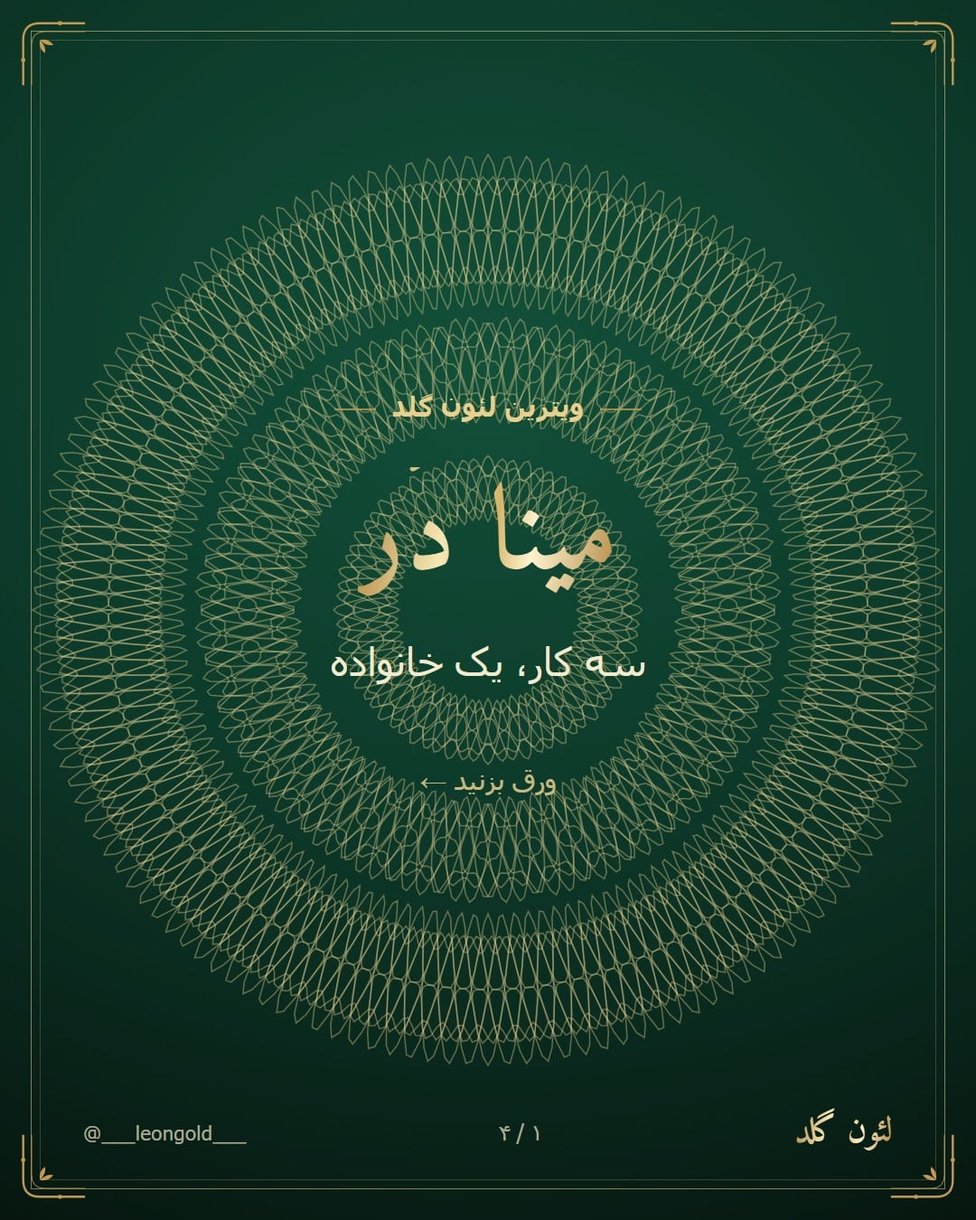
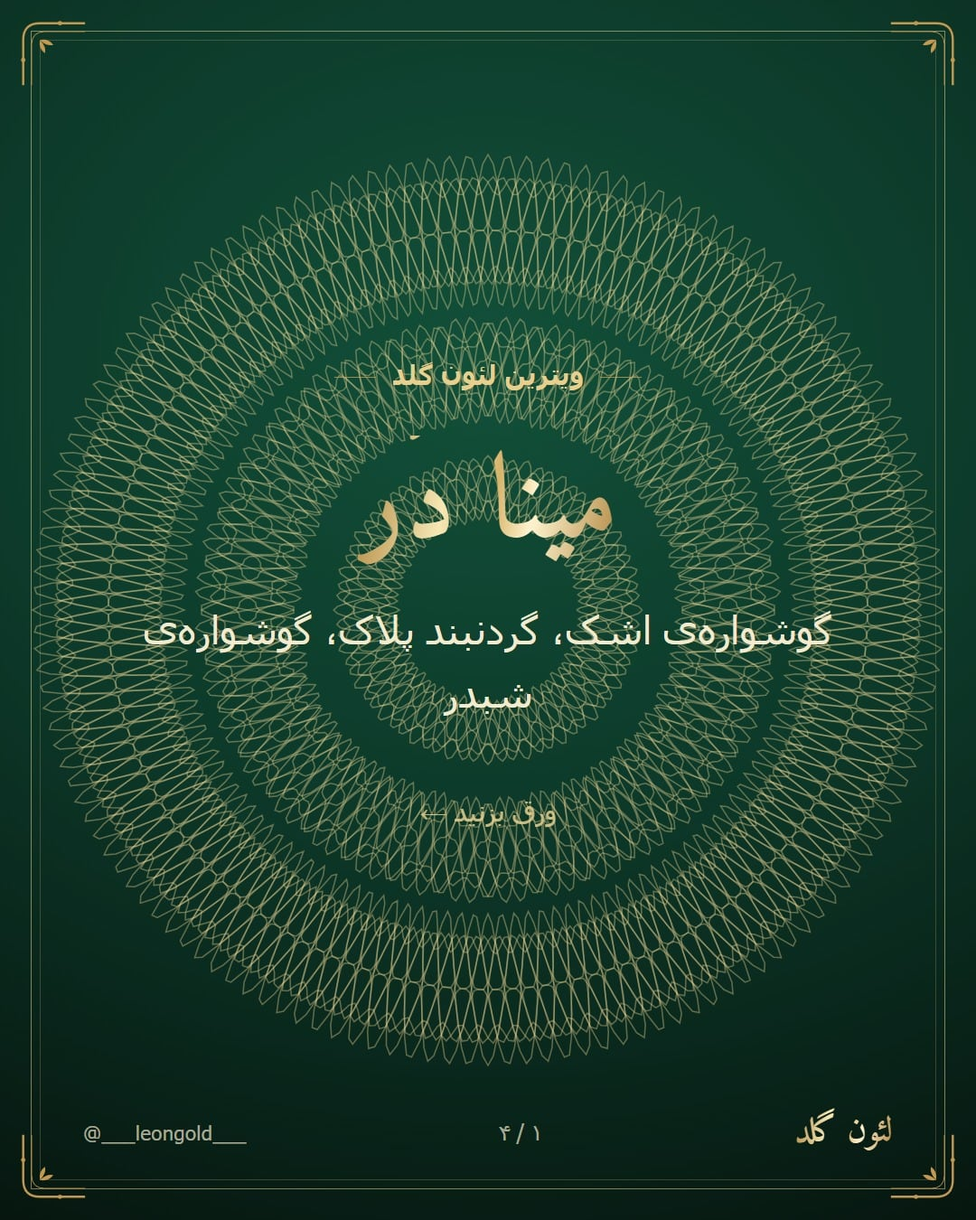
social: humanized captions, links to the piece pages

diff --git a/social/plan.js b/social/plan.js
@@ -5,10 +5,13 @@
 const MET = "موزهی متروپولیتن · CC0";
 const ASK = "وزن و قیمت امروزش را در دایرکت یا واتساپ بپرسید؛ با نرخ همین ساعتِ اتحادیه حساب میکنیم.";
 const SIGN = "لئون گلد، تهران\nشنبه تا چهارشنبه، ۱۱ تا ۱۸ · واتساپ ۰۹۱۲۹۳۷۴۵۵۲";
+// the piece pages on the site; the preview address until the owner's domain is live (then «/vitrin/<slug>/» on it)
+const VITRIN = "https://leon-gold.github.io/leon-gold-app/site/vitrin/";
+const LINK_STORY = "استوری با برچسب «لینک» (Link) به صفحهی همین کار در سایت؛ نشانی را با دکمهی «کپی لینک» بردارید.";
 const PRICE_STORY = "استوری قیمت روز: ساعت ۱۱:۳۰ صفحهی «قیمت امروز» را باز کنید، عکس را ذخیره و در استوری بگذارید.";
 
 window.PLAN = [
-  { id: "d01", date: "چهارشنبه ۶ آبان", time: "۲۱:۰۰", kind: "پست · ۳ اسلاید", title: "گوشوارهی آویز اشک",
+  { id: "d01", date: "چهارشنبه ۶ آبان", time: "۲۱:۰۰", kind: "پست · ۳ اسلاید", title: "گوشوارهی آویز اشک", link: VITRIN + "earring-drop/",
     slides: [
       { t: "photo", img: "earring-drop-1.webp", kicker: "مجموعهی مینا دُر", name: "گوشوارهی آویز اشک", sub: "قطرهای طلایی با چهار گوی براق، روی دو رشته زنجیر." },
       { t: "photo", img: "earring-drop-2.webp", plain: true },
@@ -17,7 +20,7 @@ window.PLAN = [
     ],
     caption: `گوشوارهی آویز اشک، از مجموعهی «مینا دُر»\n\nدو رشته زنجیر نازک، یک قطرهی طلا با نقش پیچ، و چهار گوی ریز که برق میزنند. بلند است و با هر حرکت سر تکان میخورد؛ با موی جمعشده بیشتر دیده میشود.\n\n${ASK}\n\n${SIGN}`,
     tags: ["#گوشواره_طلا", "#گوشواره_آویز", "#طلا_و_جواهرات", "#طلافروشی_تهران", "#لئون_گلد"],
-    stories: ["پست را در استوری بگذارید با برچسب «پست جدید».", PRICE_STORY] },
+    stories: ["پست را در استوری بگذارید با برچسب «پست جدید».", LINK_STORY, PRICE_STORY] },
 
   { id: "d02", date: "پنجشنبه ۷ آبان", time: "۱۱:۰۰", kind: "کاروسل · ۸ اسلاید", title: "شش واقعیت دربارهی طلا",
     slides: [
@@ -30,7 +33,7 @@ window.PLAN = [
       { t: "fact", big: "زرد", unit: "از نسبیت", title: "رنگ", line: "الکترونهای طلا آنقدر تند میچرخند که اثر نسبیت اینشتین در آنها پیداست؛ همین، طلا را وامیدارد نور آبی را بگیرد و زرد بدرخشد." },
       { t: "end", line: "کدامش را نمیدانستید؟\nبرای کسی که عاشق طلاست بفرستید." },
     ],
-    caption: `طلا چرا طلاست؟ شش واقعیت دربارهی طلا که کمتر شنیدهاید.\n\nاز ۱۹٫۳ گرم در هر سانتیمتر مکعب تا رنگی که از نسبیت اینشتین میآید. ورق بزنید.\n\nکدامش را نمیدانستید؟ این پست را برای کسی که عاشق طلاست بفرستید.\n\n${SIGN}`,
+    caption: `شش واقعیت دربارهی طلا، عنصر ۷۹.\n\nاز ۱۹٫۳ گرم در هر سانتیمتر مکعب تا رنگی که از نسبیت اینشتین میآید. ورق بزنید.\n\nکدامش را نمیدانستید؟ این پست را برای کسی که عاشق طلاست بفرستید.\n\n${SIGN}`,
     tags: ["#طلا", "#دانستنی_طلا", "#عنصر_طلا", "#طلا_و_جواهرات", "#لئون_گلد"],
     stories: ["پست را در استوری بگذارید با برچسب نظرسنجی: «کدام را میدانستید؟ سنگینی / رنگ».", PRICE_STORY] },
 
@@ -41,7 +44,7 @@ window.PLAN = [
     caption: "", tags: [],
     stories: ["این تصویر را در استوری بگذارید و برچسب «نظرسنجی» (Poll) را روی جای خالی وسط بگذارید: «شبدر» / «پلاک گرد».", "جمعه بازار بسته است؛ استوری قیمت امروز لازم نیست."] },
 
-  { id: "d04", date: "شنبه ۹ آبان", time: "۲۱:۰۰", kind: "پست · ۳ اسلاید", title: "گردنبند پلاک گرد",
+  { id: "d04", date: "شنبه ۹ آبان", time: "۲۱:۰۰", kind: "پست · ۳ اسلاید", title: "گردنبند پلاک گرد", link: VITRIN + "necklace-disc/",
     slides: [
       { t: "photo", img: "necklace-disc-2.webp", kicker: "مجموعهی مینا دُر", name: "گردنبند پلاک گرد", sub: "پلاک گرد با نقش پیچ، روی حلقههای درشت و زنجیر ظریف." },
       { t: "photo", img: "necklace-disc-1.webp", plain: true },
@@ -50,7 +53,7 @@ window.PLAN = [
     ],
     caption: `گردنبند پلاک گرد، از مجموعهی «مینا دُر»\n\nزنجیری ظریف با مکعبهای کوچک و پلاکهای بیضی شیاردار، که در وسط به حلقههای درشت و یک پلاک گرد با نقش پیچ میرسد. بلند است؛ روی یقهی باز یا لباس سادهی یکرنگ خوب مینشیند.\n\n${ASK}\n\n${SIGN}`,
     tags: ["#گردنبند_طلا", "#آویز_طلا", "#طلا_و_جواهرات", "#طلافروشی_تهران", "#لئون_گلد"],
-    stories: ["نتیجهی نظرسنجی جمعه را در استوری نشان دهید و بنویسید «امشب گردنبند پلاک گرد».", PRICE_STORY] },
+    stories: ["نتیجهی نظرسنجی جمعه را در استوری نشان دهید و بنویسید «امشب گردنبند پلاک گرد».", LINK_STORY, PRICE_STORY] },
 
   { id: "d05", date: "یکشنبه ۱۰ آبان", time: "۱۱:۰۰", kind: "کاروسل · ۶ اسلاید (+ ریلز اختیاری)", title: "مثقال یعنی چند گرم؟",
     slides: [
@@ -65,7 +68,7 @@ window.PLAN = [
     tags: ["#مثقال_طلا", "#قیمت_طلا", "#طلای_۱۸_عیار", "#آبشده", "#لئون_گلد"],
     reel: "r2", stories: ["کاروسل را در استوری بگذارید با برچسب «سؤال»: «سؤالتان دربارهی نرخ طلا چیست؟»؛ جوابها ایدهی پستهای بعد است.", PRICE_STORY] },
 
-  { id: "d06", date: "دوشنبه ۱۱ آبان", time: "۲۱:۰۰", kind: "پست · ۲ اسلاید", title: "گوشوارهی شبدر",
+  { id: "d06", date: "دوشنبه ۱۱ آبان", time: "۲۱:۰۰", kind: "پست · ۲ اسلاید", title: "گوشوارهی شبدر", link: VITRIN + "earring-clover/",
     slides: [
       { t: "photo", img: "earring-clover-1.webp", kicker: "مجموعهی مینا دُر", name: "گوشوارهی شبدر", sub: "گلی از چهار قلب با یک نگین، و شبدر چهاربرگ زیرش." },
       { t: "card", kicker: "از نزدیک", title: "گوشوارهی شبدر", line: "از قلاب، زنجیر کوتاهی پایین میآید؛ اول گلی که از چهار قلب توخالی ساخته شده و وسطش نگین کوچکی نشسته، بعد شبدر چهاربرگ تخت. سبک است و برای هر روز.",
@@ -73,7 +76,7 @@ window.PLAN = [
     ],
     caption: `گوشوارهی شبدر، از مجموعهی «مینا دُر»\n\nگلی از چهار قلب توخالی با نگینی کوچک در وسط، و زیرش شبدر چهاربرگ. سبک است و برای هر روز.\n\n${ASK}\n\n${SIGN}`,
     tags: ["#گوشواره_طلا", "#گوشواره_شبدر", "#طلای_روزمره", "#طلافروشی_تهران", "#لئون_گلد"],
-    stories: ["پست را در استوری بگذارید با برچسب «اسلایدر ایموجی» ❤: «چقدر دوستش دارید؟»", PRICE_STORY] },
+    stories: ["پست را در استوری بگذارید با برچسب «اسلایدر ایموجی» ❤: «چقدر دوستش دارید؟»", LINK_STORY, PRICE_STORY] },
 
   { id: "d07", date: "سهشنبه ۱۲ آبان", time: "۱۱:۰۰", kind: "کاروسل · ۷ اسلاید", title: "عیار یعنی چه؟",
     slides: [
@@ -89,7 +92,7 @@ window.PLAN = [
     tags: ["#عیار_طلا", "#طلای_۱۸_عیار", "#سکه_بهار_آزادی", "#طلا_و_جواهرات", "#لئون_گلد"],
     stories: ["کاروسل را در استوری بگذارید با برچسب «کوییز»: «نرخ مثقال بر پایهی کدام عیار است؟ ۷۵۰ / ۷۰۵ / ۹۰۰» (جواب: ۷۰۵).", PRICE_STORY] },
 
-  { id: "d08", date: "چهارشنبه ۱۳ آبان", time: "۲۱:۰۰", kind: "پست · ۲ اسلاید", title: "گوشوارهی قلب و گوی",
+  { id: "d08", date: "چهارشنبه ۱۳ آبان", time: "۲۱:۰۰", kind: "پست · ۲ اسلاید", title: "گوشوارهی قلب و گوی", link: VITRIN + "earring-hearts/",
     slides: [
       { t: "photo", img: "earring-hearts-1.webp", kicker: "ویترین لئون گلد", name: "گوشوارهی قلب و گوی", sub: "قلبی توخالی با قلب کوچکی کنارش، زیر یک گوی براق." },
       { t: "card", kicker: "از نزدیک", title: "گوشوارهی قلب و گوی", line: "از قلاب، یک پلاک بیضی چکشخورده و زنجیری ظریف پایین میآید؛ بعد گویی که مثل نگین برق میزند و قلبی توخالی که قلب کوچک تختی در آغوش دارد. ظریف و سبک است؛ هم برای هر روز، هم برای هدیه.",
@@ -97,7 +100,7 @@ window.PLAN = [
     ],
     caption: `گوشوارهی قلب و گوی\n\nپلاکی بیضی چکشخورده، زنجیری ظریف، گویی براق و قلبی توخالی که قلب کوچکی را در آغوش دارد. ظریف و سبک؛ هم برای هر روز، هم برای هدیه. کد E39.\n\n${ASK}\n\n${SIGN}`,
     tags: ["#گوشواره_طلا", "#هدیه_طلا", "#گوشواره_قلب", "#طلافروشی_تهران", "#لئون_گلد"],
-    stories: ["پست را در استوری بگذارید: «برای هدیه به کی؟» با برچسب «سؤال».", PRICE_STORY] },
+    stories: ["پست را در استوری بگذارید: «برای هدیه به کی؟» با برچسب «سؤال».", LINK_STORY, PRICE_STORY] },
 
   { id: "d09", date: "پنجشنبه ۱۴ آبان", time: "۱۱:۰۰", kind: "کاروسل · ۹ اسلاید", title: "سه هزار سال طلا در ایران",
     slides: [
@@ -115,11 +118,11 @@ window.PLAN = [
     tags: ["#تاریخ_ایران", "#طلای_ایران", "#هنر_زرگری", "#هخامنشیان", "#لئون_گلد"],
     stories: ["کاروسل را در استوری بگذارید با نظرسنجی: «هخامنشی یا سلجوقی؟».", PRICE_STORY] },
 
-  { id: "d10", date: "جمعه ۱۵ آبان", time: "۲۰:۰۰", kind: "ریلز (فیلم با آیفون)", title: "آویز اشک در حرکت",
+  { id: "d10", date: "جمعه ۱۵ آبان", time: "۲۰:۰۰", kind: "ریلز (فیلم با آیفون)", title: "آویز اشک در حرکت", link: VITRIN + "earring-drop/",
     slides: [{ t: "cover", kicker: "کاور ریلز", title: "با هر حرکت، برق", sub: "گوشوارهی آویز اشک · مینا دُر", size: "reel" }],
-    caption: `با هر حرکت، برق. گوشوارهی آویز اشک از مجموعهی «مینا دُر».\n\nدو رشته زنجیر و چهار گوی ریز که با هر حرکت سر تکان میخورند.\n\n${ASK}\n\n${SIGN}`,
+    caption: `گوشوارهی آویز اشک از مجموعهی «مینا دُر»، در حرکت: دو رشته زنجیر و چهار گوی ریز که با هر حرکت سر تکان میخورند و برق میزنند.\n\n${ASK}\n\n${SIGN}`,
     tags: ["#گوشواره_طلا", "#ریلز_طلا", "#گوشواره_آویز", "#طلافروشی_تهران", "#لئون_گلد"],
-    reel: "r1", stories: ["ریلز را در استوری بگذارید.", "جمعه بازار بسته است؛ استوری قیمت امروز لازم نیست."] },
+    reel: "r1", stories: ["ریلز را در استوری بگذارید.", LINK_STORY, "جمعه بازار بسته است؛ استوری قیمت امروز لازم نیست."] },
 
   { id: "d11", date: "شنبه ۱۶ آبان", time: "۱۱:۰۰", kind: "کاروسل · ۶ اسلاید", title: "رنگهای طلا",
     slides: [
@@ -130,20 +133,20 @@ window.PLAN = [
       { t: "swatch", name: "سبز", hex: "#cfc77a", mix: "طلا ۷۵ · نقره ۲۵", line: "فقط نقره؛ زردی کمرنگ با تهرنگ سبز، که در طبیعت هم پیدا میشود." },
       { t: "end", line: "هر چهار رنگ ۷۵۰ است؛\nفقط همراهِ طلا فرق میکند." },
     ],
-    caption: `طلای سفید هم طلاست؟ بله. هر چهار رنگ ۷۵۰ است؛ فقط فلزی که کنار طلا مینشیند فرق میکند.\n\nزرد: مس و نقره به یک اندازه. رزگلد: مسِ بیشتر. سفید: پالادیوم. سبز: فقط نقره. ورق بزنید.\n\nشما کدام رنگ را میپسندید؟\n\n${SIGN}`,
+    caption: `طلای سفید، رزگلد، زرد و سبز همه ۷۵۰ هستند؛ رنگ را فلزی میسازد که کنار طلا مینشیند.\n\nزرد: مس و نقره به یک اندازه. رزگلد: مسِ بیشتر. سفید: پالادیوم. سبز: فقط نقره. ورق بزنید.\n\nشما کدام رنگ را میپسندید؟\n\n${SIGN}`,
     tags: ["#طلای_سفید", "#رزگلد", "#رنگ_طلا", "#طلا_و_جواهرات", "#لئون_گلد"],
     stories: ["کاروسل را در استوری بگذارید با نظرسنجی: «زرد یا رزگلد؟».", PRICE_STORY] },
 
-  { id: "d12", date: "یکشنبه ۱۷ آبان", time: "۲۱:۰۰", kind: "کاروسل · ۴ اسلاید", title: "مجموعهی مینا دُر",
+  { id: "d12", date: "یکشنبه ۱۷ آبان", time: "۲۱:۰۰", kind: "کاروسل · ۴ اسلاید", title: "مجموعهی مینا دُر", link: VITRIN,
     slides: [
-      { t: "cover", kicker: "ویترین لئون گلد", title: "مینا دُر", sub: "سه کار، یک خانواده" },
+      { t: "cover", kicker: "ویترین لئون گلد", title: "مینا دُر", sub: "گوشوارهی اشک، گردنبند پلاک، گوشوارهی شبدر" },
       { t: "photo", img: "earring-drop-1.webp", kicker: "مینا دُر", name: "گوشوارهی آویز اشک", sub: "قطرهای طلایی با چهار گوی براق." },
       { t: "photo", img: "necklace-disc-2.webp", kicker: "مینا دُر", name: "گردنبند پلاک گرد", sub: "پلاک گرد با نقش پیچ، روی حلقههای درشت." },
       { t: "photo", img: "earring-clover-1.webp", kicker: "مینا دُر", name: "گوشوارهی شبدر", sub: "گلی از چهار قلب، و شبدر چهاربرگ زیرش." },
     ],
-    caption: `مجموعهی «مینا دُر» در ویترین لئون گلد: سه کار، یک خانواده.\n\nگوشوارهی آویز اشک، گردنبند پلاک گرد و گوشوارهی شبدر؛ هر سه با نقش پیچ و برق گویها و نگینهای ریز. کنار هم هم مینشینند.\n\nوزن و قیمت امروز هر کدام را در دایرکت یا واتساپ بپرسید.\n\n${SIGN}`,
+    caption: `مجموعهی «مینا دُر» در ویترین لئون گلد: گوشوارهی آویز اشک، گردنبند پلاک گرد و گوشوارهی شبدر.\n\nگردنبند و گوشوارهی اشک نقش پیچ دارند و گوشوارهی شبدر نگینی ریز؛ میشود آنها را با هم یا تکتک انداخت.\n\nوزن و قیمت امروز هر کدام را در دایرکت یا واتساپ بپرسید.\n\n${SIGN}`,
     tags: ["#سرویس_طلا", "#گوشواره_طلا", "#گردنبند_طلا", "#طلافروشی_تهران", "#لئون_گلد"],
-    stories: ["کاروسل را در استوری بگذارید با نظرسنجی: «کدام کار مینا دُر؟ اشک / پلاک / شبدر».", PRICE_STORY] },
+    stories: ["کاروسل را در استوری بگذارید با نظرسنجی: «کدام کار مینا دُر؟ اشک / پلاک / شبدر».", "استوری با برچسب «لینک» به ویترین سایت؛ نشانی را با دکمهی «کپی لینک» بردارید.", PRICE_STORY] },
 
   { id: "d13", date: "دوشنبه ۱۸ آبان", time: "۱۱:۰۰", kind: "کاروسل · ۸ اسلاید", title: "دست زرگر",
     slides: [

diff --git a/social/index.html b/social/index.html
@@ -109,7 +109,8 @@ document.getElementById("days").innerHTML = PLAN.map((d, i) => {
       <label><input type="checkbox" data-done="${d.id}"${store.get("done-" + d.id) ? " checked" : ""}> انجام شد</label></div>
     <div class="strip">${imgs(d).map((s) => `<a href="${s}" target="_blank"><img src="${s}" loading="lazy" alt=""></a>`).join("")}</div>
     <div class="row"><button class="btn ink" data-save="${d.id}">ذخیرهی ${d.slides.length > 1 ? "تصویرها" : "تصویر"}</button>
-      ${d.caption ? `<button class="btn" data-copy="${d.id}">کپی متن و هشتگها</button>` : ""}</div>
+      ${d.caption ? `<button class="btn" data-copy="${d.id}">کپی متن و هشتگها</button>` : ""}
+      ${d.link ? `<button class="btn line" data-link="${d.id}">کپی لینک صفحهی کار</button>` : ""}</div>
     ${d.caption ? `<div class="cap">${esc(fullText(d))}</div>` : ""}
     <div class="sub"><h3>استوریهای امروز</h3><ul>${d.stories.map((s) => `<li>${esc(s)}</li>`).join("")}</ul>
     ${r ? `<h3>ریلز: ${esc(r.title)} (${esc(r.len)})</h3><ol>${r.shots.map(([t, a, txt]) => `<li class="shot"><b>${esc(t)}:</b> ${esc(a)}${txt ? `<br>${esc(txt)}` : ""}</li>`).join("")}</ol>
@@ -119,10 +120,11 @@ document.getElementById("days").innerHTML = PLAN.map((d, i) => {
 
 document.addEventListener("click", async (e) => {
   const b = e.target.closest("button"); if (!b) return;
-  const d = PLAN.find((x) => x.id === (b.dataset.copy || b.dataset.save)); if (!d) return;
-  if (b.dataset.copy) {
-    try { await navigator.clipboard.writeText(fullText(d)); toast("کپی شد"); }
-    catch { const t = document.createElement("textarea"); t.value = fullText(d); document.body.append(t); t.select(); document.execCommand("copy"); t.remove(); toast("کپی شد"); }
+  const d = PLAN.find((x) => x.id === (b.dataset.copy || b.dataset.save || b.dataset.link)); if (!d) return;
+  if (b.dataset.copy || b.dataset.link) {
+    const text = b.dataset.link ? d.link : fullText(d);
+    try { await navigator.clipboard.writeText(text); toast("کپی شد"); }
+    catch { const t = document.createElement("textarea"); t.value = text; document.body.append(t); t.select(); document.execCommand("copy"); t.remove(); toast("کپی شد"); }
   } else {
     b.disabled = true;
     try {
